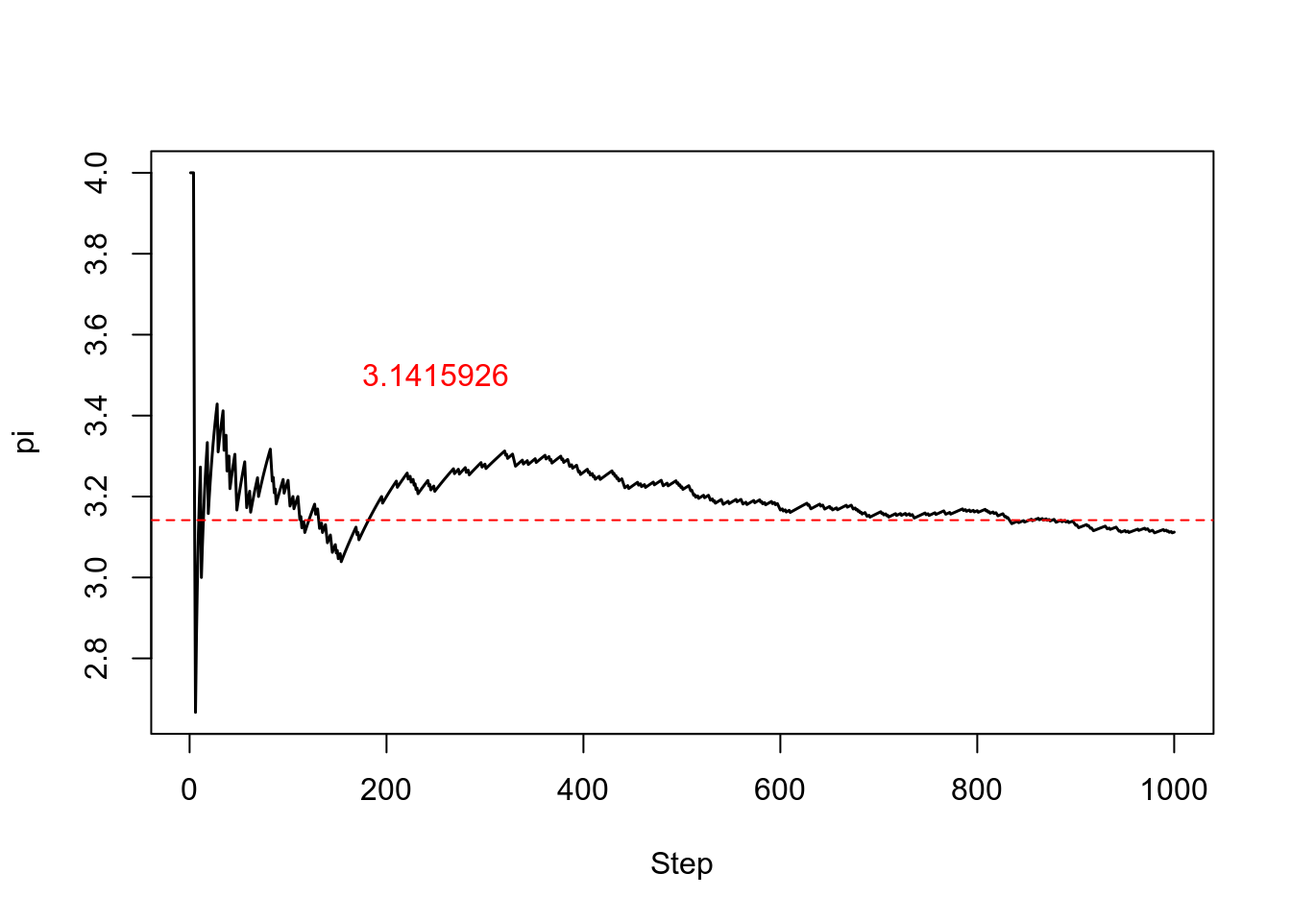
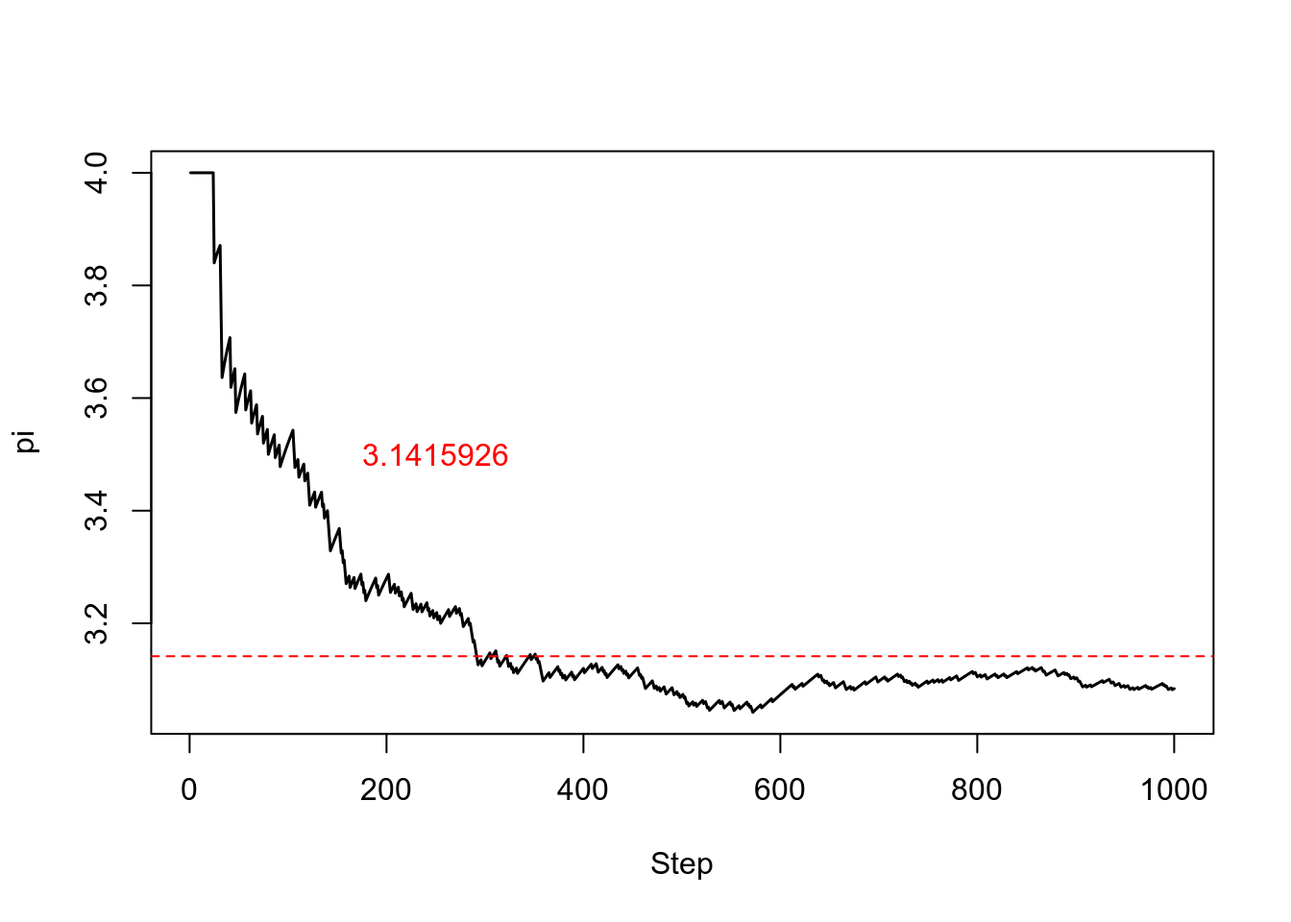
ditto

diff --git a/docs/Section_02.html b/docs/Section_02.html
@@ -787,126 +787,126 @@ div.tocify {
 <a class="sourceLine" id="cb101-4" data-line-number="4">    <span class="kw">print</span>(<span class="kw">paste</span>(Daily_T,Hourly_T))</a>
 <a class="sourceLine" id="cb101-5" data-line-number="5">  }</a>
 <a class="sourceLine" id="cb101-6" data-line-number="6">}</a></code></pre></div>
-<pre><code>## [1] &quot;28 22.9191116558783&quot;
-## [1] &quot;28 24.3034662526052&quot;
-## [1] &quot;28 22.4652657738273&quot;
-## [1] &quot;28 27.0292293920436&quot;
-## [1] &quot;28 27.317875793404&quot;
-## [1] &quot;28 31.4095082489916&quot;
-## [1] &quot;28 30.411486219151&quot;
-## [1] &quot;28 35.704508901776&quot;
-## [1] &quot;28 18.3642222439417&quot;
-## [1] &quot;28 30.3605508692224&quot;
-## [1] &quot;28 22.4817171744962&quot;
-## [1] &quot;28 32.8253506806025&quot;
-## [1] &quot;28 19.377207396677&quot;
-## [1] &quot;28 27.6832994986701&quot;
-## [1] &quot;28 31.1823830232802&quot;
-## [1] &quot;28 29.7680876428388&quot;
-## [1] &quot;28 31.421311646675&quot;
-## [1] &quot;28 15.7170130880617&quot;
-## [1] &quot;28 24.8584999626273&quot;
-## [1] &quot;28 32.2290992560656&quot;
-## [1] &quot;28 22.2165184411214&quot;
-## [1] &quot;28 30.555776103582&quot;
-## [1] &quot;28 24.637593486394&quot;
-## [1] &quot;28 30.4547117643604&quot;
-## [1] &quot;27 24.828478550457&quot;
-## [1] &quot;27 24.0050610548382&quot;
-## [1] &quot;27 27.3601173289363&quot;
-## [1] &quot;27 31.5433283104331&quot;
-## [1] &quot;27 33.9629615518149&quot;
-## [1] &quot;27 27.4525374399896&quot;
-## [1] &quot;27 21.5489616808278&quot;
-## [1] &quot;27 33.3592963523878&quot;
-## [1] &quot;27 23.0113552535564&quot;
-## [1] &quot;27 14.7691593533683&quot;
-## [1] &quot;27 26.2622491419084&quot;
-## [1] &quot;27 26.249150148728&quot;
-## [1] &quot;27 24.6024781597006&quot;
-## [1] &quot;27 21.6985351885774&quot;
-## [1] &quot;27 24.7507372439474&quot;
-## [1] &quot;27 19.0818243231572&quot;
-## [1] &quot;27 34.8594683355909&quot;
-## [1] &quot;27 32.4508977564952&quot;
-## [1] &quot;27 23.0804543013004&quot;
-## [1] &quot;27 30.3104859814593&quot;
-## [1] &quot;27 25.9496726020101&quot;
-## [1] &quot;27 21.1513132471162&quot;
-## [1] &quot;27 24.944490227595&quot;
-## [1] &quot;27 23.7648506550721&quot;
-## [1] &quot;28 32.2530019545672&quot;
-## [1] &quot;28 32.5270945805066&quot;
-## [1] &quot;28 21.4820541504723&quot;
-## [1] &quot;28 29.8156422224574&quot;
-## [1] &quot;28 32.0707872452812&quot;
-## [1] &quot;28 15.841976932703&quot;
-## [1] &quot;28 26.854665636916&quot;
-## [1] &quot;28 32.7594643338706&quot;
-## [1] &quot;28 35.9600075764608&quot;
-## [1] &quot;28 36.5656881318726&quot;
-## [1] &quot;28 35.4960738012371&quot;
-## [1] &quot;28 31.6089596825584&quot;
-## [1] &quot;28 21.9734232996874&quot;
-## [1] &quot;28 26.2839952636924&quot;
-## [1] &quot;28 21.1313745681211&quot;
-## [1] &quot;28 28.1717763098867&quot;
-## [1] &quot;28 24.8164412264669&quot;
-## [1] &quot;28 23.8203283041192&quot;
-## [1] &quot;28 30.216732431821&quot;
-## [1] &quot;28 28.9294501973824&quot;
-## [1] &quot;28 28.5640739935584&quot;
-## [1] &quot;28 29.3040506459835&quot;
-## [1] &quot;28 31.1703069260631&quot;
-## [1] &quot;28 26.4310319719161&quot;
-## [1] &quot;26 22.6071752951435&quot;
-## [1] &quot;26 28.9879125620035&quot;
-## [1] &quot;26 38.8546428651189&quot;
-## [1] &quot;26 29.013920228407&quot;
-## [1] &quot;26 25.445754974153&quot;
-## [1] &quot;26 23.82032790943&quot;
-## [1] &quot;26 26.6019247040476&quot;
-## [1] &quot;26 25.7388803092742&quot;
-## [1] &quot;26 34.6387925429814&quot;
-## [1] &quot;26 18.9936654992185&quot;
-## [1] &quot;26 31.5077973568849&quot;
-## [1] &quot;26 34.803481199985&quot;
-## [1] &quot;26 18.8254455601274&quot;
-## [1] &quot;26 26.5290560627627&quot;
-## [1] &quot;26 24.8431436983811&quot;
-## [1] &quot;26 29.781813249106&quot;
-## [1] &quot;26 28.512139065395&quot;
-## [1] &quot;26 37.5016784800417&quot;
-## [1] &quot;26 19.411108993042&quot;
-## [1] &quot;26 23.6670679568973&quot;
-## [1] &quot;26 28.9400318925177&quot;
-## [1] &quot;26 23.8386490417072&quot;
-## [1] &quot;26 22.9776082150727&quot;
-## [1] &quot;26 22.2683823768214&quot;
-## [1] &quot;27 29.7685404065086&quot;
-## [1] &quot;27 24.4357285010906&quot;
-## [1] &quot;27 21.1122821327159&quot;
-## [1] &quot;27 25.7375142995129&quot;
-## [1] &quot;27 29.2120886617133&quot;
-## [1] &quot;27 18.280928424983&quot;
-## [1] &quot;27 27.315669260055&quot;
-## [1] &quot;27 21.4672390348214&quot;
-## [1] &quot;27 31.6419887465922&quot;
-## [1] &quot;27 25.2375830227144&quot;
-## [1] &quot;27 32.9351579389032&quot;
-## [1] &quot;27 25.1632281403269&quot;
-## [1] &quot;27 25.6106089636792&quot;
-## [1] &quot;27 22.4670567906213&quot;
-## [1] &quot;27 24.7237233429811&quot;
-## [1] &quot;27 26.3417546957906&quot;
-## [1] &quot;27 26.249661837773&quot;
-## [1] &quot;27 21.5821710540884&quot;
-## [1] &quot;27 21.5073432858152&quot;
-## [1] &quot;27 24.7304041980658&quot;
-## [1] &quot;27 30.9296535110593&quot;
-## [1] &quot;27 33.7436679297372&quot;
-## [1] &quot;27 19.4399383825444&quot;
-## [1] &quot;27 37.3037344007725&quot;</code></pre>
+<pre><code>## [1] &quot;28 32.7064156409952&quot;
+## [1] &quot;28 34.4683461769949&quot;
+## [1] &quot;28 25.7774768978171&quot;
+## [1] &quot;28 26.4952805866068&quot;
+## [1] &quot;28 21.1178881184513&quot;
+## [1] &quot;28 36.2704712668829&quot;
+## [1] &quot;28 25.51427156905&quot;
+## [1] &quot;28 25.2801701175247&quot;
+## [1] &quot;28 34.422791721655&quot;
+## [1] &quot;28 40.6181354517753&quot;
+## [1] &quot;28 30.1791787593159&quot;
+## [1] &quot;28 31.2884978628118&quot;
+## [1] &quot;28 32.7454724455758&quot;
+## [1] &quot;28 23.5780201324915&quot;
+## [1] &quot;28 30.0290887688121&quot;
+## [1] &quot;28 32.9867793174989&quot;
+## [1] &quot;28 25.2474507548463&quot;
+## [1] &quot;28 20.9585827345886&quot;
+## [1] &quot;28 25.9528157454482&quot;
+## [1] &quot;28 28.7422917577332&quot;
+## [1] &quot;28 25.042355085962&quot;
+## [1] &quot;28 27.1923449645665&quot;
+## [1] &quot;28 27.6475376849079&quot;
+## [1] &quot;28 38.0408697353107&quot;
+## [1] &quot;27 28.4583907249588&quot;
+## [1] &quot;27 32.3567619773628&quot;
+## [1] &quot;27 22.0600239736614&quot;
+## [1] &quot;27 34.8416075499269&quot;
+## [1] &quot;27 27.0184804546902&quot;
+## [1] &quot;27 31.5013701787295&quot;
+## [1] &quot;27 29.1198227773134&quot;
+## [1] &quot;27 30.3663830274843&quot;
+## [1] &quot;27 27.5437286735898&quot;
+## [1] &quot;27 28.6358272317581&quot;
+## [1] &quot;27 23.875782365765&quot;
+## [1] &quot;27 31.7863367415779&quot;
+## [1] &quot;27 25.5001270212726&quot;
+## [1] &quot;27 32.2838415929911&quot;
+## [1] &quot;27 30.229840605515&quot;
+## [1] &quot;27 20.9429100802247&quot;
+## [1] &quot;27 27.3705092260679&quot;
+## [1] &quot;27 17.1114909950213&quot;
+## [1] &quot;27 30.0551963590906&quot;
+## [1] &quot;27 22.8213674376947&quot;
+## [1] &quot;27 37.8217805527453&quot;
+## [1] &quot;27 30.214262339479&quot;
+## [1] &quot;27 33.091792468528&quot;
+## [1] &quot;27 35.2282921037143&quot;
+## [1] &quot;28 23.7474867724994&quot;
+## [1] &quot;28 23.2450181513571&quot;
+## [1] &quot;28 26.7983867386975&quot;
+## [1] &quot;28 26.5722257283531&quot;
+## [1] &quot;28 22.7941412727559&quot;
+## [1] &quot;28 27.2825488666677&quot;
+## [1] &quot;28 19.1267642244144&quot;
+## [1] &quot;28 25.2388907578233&quot;
+## [1] &quot;28 30.8849475819073&quot;
+## [1] &quot;28 17.9403011141752&quot;
+## [1] &quot;28 30.6416411145722&quot;
+## [1] &quot;28 34.404081072351&quot;
+## [1] &quot;28 22.7296690301647&quot;
+## [1] &quot;28 25.8268205320394&quot;
+## [1] &quot;28 27.2070545424958&quot;
+## [1] &quot;28 30.1651911630407&quot;
+## [1] &quot;28 27.7739760288708&quot;
+## [1] &quot;28 31.3777756251232&quot;
+## [1] &quot;28 30.307386298291&quot;
+## [1] &quot;28 26.2823129929206&quot;
+## [1] &quot;28 27.3800302460586&quot;
+## [1] &quot;28 22.9166051198795&quot;
+## [1] &quot;28 30.7779677362448&quot;
+## [1] &quot;28 32.9835717456618&quot;
+## [1] &quot;26 22.2695332386497&quot;
+## [1] &quot;26 27.016076766294&quot;
+## [1] &quot;26 23.0378612164055&quot;
+## [1] &quot;26 21.2769206898209&quot;
+## [1] &quot;26 25.147874106553&quot;
+## [1] &quot;26 25.1303897206819&quot;
+## [1] &quot;26 37.9081181339775&quot;
+## [1] &quot;26 18.7245071138765&quot;
+## [1] &quot;26 23.5290242959589&quot;
+## [1] &quot;26 31.2361394319059&quot;
+## [1] &quot;26 25.5327747293728&quot;
+## [1] &quot;26 30.1452872892724&quot;
+## [1] &quot;26 29.9026151737417&quot;
+## [1] &quot;26 26.599917254754&quot;
+## [1] &quot;26 24.8119404368588&quot;
+## [1] &quot;26 20.5891765019985&quot;
+## [1] &quot;26 27.5427950774953&quot;
+## [1] &quot;26 17.7193475580249&quot;
+## [1] &quot;26 26.9951024691148&quot;
+## [1] &quot;26 28.4035145113974&quot;
+## [1] &quot;26 29.5099813521896&quot;
+## [1] &quot;26 25.3193090941847&quot;
+## [1] &quot;26 25.0872054085284&quot;
+## [1] &quot;26 18.8398294900316&quot;
+## [1] &quot;27 31.4249465839965&quot;
+## [1] &quot;27 19.1705624119307&quot;
+## [1] &quot;27 37.7321411956095&quot;
+## [1] &quot;27 20.1621659279127&quot;
+## [1] &quot;27 26.8560101922007&quot;
+## [1] &quot;27 24.6797866802272&quot;
+## [1] &quot;27 24.9644996246178&quot;
+## [1] &quot;27 24.9357427795714&quot;
+## [1] &quot;27 26.2752472738663&quot;
+## [1] &quot;27 22.7041440456932&quot;
+## [1] &quot;27 25.7643713281794&quot;
+## [1] &quot;27 26.3893820156297&quot;
+## [1] &quot;27 28.9289622376422&quot;
+## [1] &quot;27 28.6753998551052&quot;
+## [1] &quot;27 33.5457651356556&quot;
+## [1] &quot;27 24.6504871130639&quot;
+## [1] &quot;27 21.5635460605378&quot;
+## [1] &quot;27 24.0318298289227&quot;
+## [1] &quot;27 28.3277828453996&quot;
+## [1] &quot;27 25.6387877043074&quot;
+## [1] &quot;27 33.7478053209952&quot;
+## [1] &quot;27 35.9686045506586&quot;
+## [1] &quot;27 24.1163424076562&quot;
+## [1] &quot;27 24.7949433581714&quot;</code></pre>
 <p>Here at each <code>Hour</code> we use the <code>rnorm()</code> function to generate <code>1</code> random Gaussian sample with a mean of <code>Daily_T</code> and a standard deviation of <code>5</code>.</p>
 <p>We notice in the output that when the first index (<code>Daily_T</code>) is set to <code>28</code>, the second index (<code>Hour</code>) iterates through its full set of indices. Once the indices of <code>Hour</code> have been iterated through, then <code>Daily_T</code> moves to the next one (<em>i.e.</em>, <code>27</code>). This process continues until the last index has been used for each <code>for()</code> loop.</p>
 <p>Rather than printing the results, we could write the loop output to a new <em>object</em>:</p>
@@ -920,26 +920,26 @@ div.tocify {
 <a class="sourceLine" id="cb103-8" data-line-number="8">}</a>
 <a class="sourceLine" id="cb103-9" data-line-number="9"></a>
 <a class="sourceLine" id="cb103-10" data-line-number="10"><span class="kw">print</span>(Output_List)</a></code></pre></div>
-<pre><code>##   [1] &quot;28 27.7432833538552&quot; &quot;28 24.6774029920211&quot; &quot;28 25.252488770833&quot;  &quot;28 25.5011128239145&quot; &quot;28 32.0411261681307&quot; &quot;28 32.3233760962101&quot;
-##   [7] &quot;28 24.1632921590382&quot; &quot;28 30.036859588747&quot;  &quot;28 32.1169386256536&quot; &quot;28 32.0528804878&quot;    &quot;28 22.2599915004862&quot; &quot;28 26.7131709506255&quot;
-##  [13] &quot;28 19.6629872952296&quot; &quot;28 22.2551422143391&quot; &quot;28 32.5376874171742&quot; &quot;28 27.0627264698798&quot; &quot;28 32.2720345081598&quot; &quot;28 30.5059193061132&quot;
-##  [19] &quot;28 29.8963910993256&quot; &quot;28 30.0001935892354&quot; &quot;28 29.2292464136703&quot; &quot;28 26.7872371078314&quot; &quot;28 14.6310796853046&quot; &quot;28 19.9828784434807&quot;
-##  [25] &quot;27 24.1189156384446&quot; &quot;27 29.4239308437637&quot; &quot;27 29.493131615655&quot;  &quot;27 23.7302889688842&quot; &quot;27 25.8254202452938&quot; &quot;27 25.8026525319922&quot;
-##  [31] &quot;27 35.3222555560755&quot; &quot;27 24.1686179606026&quot; &quot;27 23.458848676758&quot;  &quot;27 35.3540734102969&quot; &quot;27 33.3364765879952&quot; &quot;27 24.7378591826586&quot;
-##  [37] &quot;27 32.6166395268288&quot; &quot;27 17.1401736131283&quot; &quot;27 21.415692652256&quot;  &quot;27 29.2227759934053&quot; &quot;27 22.9113402243862&quot; &quot;27 28.7177357828811&quot;
-##  [43] &quot;27 28.3449326475815&quot; &quot;27 23.731040609176&quot;  &quot;27 34.406082294112&quot;  &quot;27 18.579141515937&quot;  &quot;27 34.8810324308279&quot; &quot;27 27.8586760810725&quot;
-##  [49] &quot;28 34.7315696236365&quot; &quot;28 28.5289029450792&quot; &quot;28 31.6567577937533&quot; &quot;28 27.0486502354259&quot; &quot;28 29.4067303708343&quot; &quot;28 29.7654207275711&quot;
-##  [55] &quot;28 26.4019357596918&quot; &quot;28 26.9891432557744&quot; &quot;28 24.5148699345987&quot; &quot;28 27.5677631864497&quot; &quot;28 23.8628639769401&quot; &quot;28 28.5871306741653&quot;
-##  [61] &quot;28 30.5880459467583&quot; &quot;28 23.9034107330156&quot; &quot;28 28.0204131541773&quot; &quot;28 29.7572892790911&quot; &quot;28 32.9678287032894&quot; &quot;28 25.7720993733047&quot;
-##  [67] &quot;28 30.8663957216972&quot; &quot;28 25.9999692367507&quot; &quot;28 22.4947943480124&quot; &quot;28 32.6142959071695&quot; &quot;28 29.5161825152086&quot; &quot;28 24.0094997002381&quot;
-##  [73] &quot;26 22.6062894088139&quot; &quot;26 32.1394050689212&quot; &quot;26 18.6952956292717&quot; &quot;26 30.5909410381709&quot; &quot;26 26.7687591728828&quot; &quot;26 26.2966964901693&quot;
-##  [79] &quot;26 23.9595261960213&quot; &quot;26 16.7374591010743&quot; &quot;26 30.2736887534817&quot; &quot;26 26.928812668738&quot;  &quot;26 17.6764338494553&quot; &quot;26 24.755955776389&quot; 
-##  [85] &quot;26 20.9357360468395&quot; &quot;26 24.7028580115916&quot; &quot;26 31.4093495460369&quot; &quot;26 29.593408867867&quot;  &quot;26 27.9585017262092&quot; &quot;26 18.9360181909323&quot;
-##  [91] &quot;26 23.3910138772211&quot; &quot;26 29.152466633467&quot;  &quot;26 33.7353715825918&quot; &quot;26 24.1082183733841&quot; &quot;26 22.0506888160827&quot; &quot;26 26.4911560838813&quot;
-##  [97] &quot;27 24.352901069094&quot;  &quot;27 27.7120945320861&quot; &quot;27 22.7778912601227&quot; &quot;27 37.1067392726399&quot; &quot;27 30.5178071977614&quot; &quot;27 35.5611615888504&quot;
-## [103] &quot;27 30.4583223588485&quot; &quot;27 21.074230597792&quot;  &quot;27 29.5255015179571&quot; &quot;27 28.9964281344267&quot; &quot;27 25.5192931272121&quot; &quot;27 30.0999291889517&quot;
-## [109] &quot;27 27.1090441385058&quot; &quot;27 29.0311067388948&quot; &quot;27 27.4205810230841&quot; &quot;27 31.9950508700225&quot; &quot;27 28.6100146241754&quot; &quot;27 29.3145420651475&quot;
-## [115] &quot;27 23.4113731843149&quot; &quot;27 26.5382751063149&quot; &quot;27 30.2514956198252&quot; &quot;27 29.5075108538948&quot; &quot;27 16.7393703157843&quot; &quot;27 30.2502718784969&quot;</code></pre>
+<pre><code>##   [1] &quot;28 21.0949509842951&quot; &quot;28 31.9805316118299&quot; &quot;28 31.2804637104269&quot; &quot;28 30.882777569312&quot;  &quot;28 28.9874403034081&quot; &quot;28 34.0612284218637&quot;
+##   [7] &quot;28 39.9683264979883&quot; &quot;28 36.2940293003086&quot; &quot;28 30.8049780536642&quot; &quot;28 22.6791294958927&quot; &quot;28 23.2305377421081&quot; &quot;28 18.6730466728511&quot;
+##  [13] &quot;28 28.4149587957368&quot; &quot;28 27.7866430702377&quot; &quot;28 31.4110902066936&quot; &quot;28 32.2514974640576&quot; &quot;28 31.685255901918&quot;  &quot;28 29.7028244005832&quot;
+##  [19] &quot;28 30.0763293054984&quot; &quot;28 24.6728565757325&quot; &quot;28 24.9180649220376&quot; &quot;28 34.9063321501391&quot; &quot;28 33.8938440532069&quot; &quot;28 25.7991677512124&quot;
+##  [25] &quot;27 27.4434864402074&quot; &quot;27 28.6318539101278&quot; &quot;27 26.2496383951006&quot; &quot;27 28.4813917558264&quot; &quot;27 27.2371358225542&quot; &quot;27 26.5147173815944&quot;
+##  [31] &quot;27 25.355914343397&quot;  &quot;27 33.9874749860551&quot; &quot;27 32.4943093189908&quot; &quot;27 28.0507922122772&quot; &quot;27 24.5075988234029&quot; &quot;27 30.8315026433015&quot;
+##  [37] &quot;27 29.5815020211342&quot; &quot;27 24.490149237508&quot;  &quot;27 25.1484716918157&quot; &quot;27 22.8248291885613&quot; &quot;27 18.6030842514769&quot; &quot;27 24.4718557717292&quot;
+##  [43] &quot;27 27.592076226255&quot;  &quot;27 26.0519626696945&quot; &quot;27 30.0466215156517&quot; &quot;27 21.803357590045&quot;  &quot;27 32.2128765539625&quot; &quot;27 28.5942340428193&quot;
+##  [49] &quot;28 32.3417596373243&quot; &quot;28 25.3173577755698&quot; &quot;28 33.2254688688115&quot; &quot;28 25.1238817758099&quot; &quot;28 27.1643528285061&quot; &quot;28 29.8123620663187&quot;
+##  [55] &quot;28 30.983659077839&quot;  &quot;28 35.9831316302524&quot; &quot;28 31.2609395773967&quot; &quot;28 27.683856055621&quot;  &quot;28 30.4503606105118&quot; &quot;28 30.0509050851953&quot;
+##  [61] &quot;28 26.7067865323634&quot; &quot;28 23.9615279930524&quot; &quot;28 21.8457501072167&quot; &quot;28 27.5866098869181&quot; &quot;28 31.4803009011558&quot; &quot;28 28.3737082483436&quot;
+##  [67] &quot;28 24.08810905667&quot;   &quot;28 35.8594043911321&quot; &quot;28 26.0308098398545&quot; &quot;28 36.4832578811591&quot; &quot;28 33.63962337813&quot;   &quot;28 21.2735176181607&quot;
+##  [73] &quot;26 27.272088449968&quot;  &quot;26 22.7613124722723&quot; &quot;26 30.9214453764658&quot; &quot;26 25.9826493104594&quot; &quot;26 24.3108073338016&quot; &quot;26 26.7860532799714&quot;
+##  [79] &quot;26 24.8478825733139&quot; &quot;26 25.3946733734372&quot; &quot;26 34.5508221871593&quot; &quot;26 20.3727878695449&quot; &quot;26 20.5005356577399&quot; &quot;26 33.667939204097&quot; 
+##  [85] &quot;26 18.3312801216928&quot; &quot;26 20.9303045474935&quot; &quot;26 25.5583730252619&quot; &quot;26 24.2773656128847&quot; &quot;26 37.019451969911&quot;  &quot;26 24.514475688563&quot; 
+##  [91] &quot;26 31.0131549966082&quot; &quot;26 29.4402589966123&quot; &quot;26 23.5580460175181&quot; &quot;26 18.5033370263963&quot; &quot;26 25.9814692283085&quot; &quot;26 32.1603871769426&quot;
+##  [97] &quot;27 28.3259987143422&quot; &quot;27 37.7920834134514&quot; &quot;27 26.082073827191&quot;  &quot;27 20.6747376698151&quot; &quot;27 30.6806943807441&quot; &quot;27 18.8817696379745&quot;
+## [103] &quot;27 27.6732192539528&quot; &quot;27 29.3579965342082&quot; &quot;27 25.9449554347444&quot; &quot;27 34.5716315303321&quot; &quot;27 32.3753951699968&quot; &quot;27 30.3635679037415&quot;
+## [109] &quot;27 26.8514310368503&quot; &quot;27 21.9982305662726&quot; &quot;27 27.0500421127744&quot; &quot;27 27.18831937769&quot;   &quot;27 34.7786581994119&quot; &quot;27 25.3877005956171&quot;
+## [115] &quot;27 26.134079189191&quot;  &quot;27 26.2385169324646&quot; &quot;27 34.1431418281852&quot; &quot;27 21.3691795986348&quot; &quot;27 30.7226955204534&quot; &quot;27 28.4854884418197&quot;</code></pre>
 <p>This approach can be useful, but “growing your results” (building the result object incrementally) is <strong>computationally inefficient</strong>, so avoid it when you are iterating through a lot of values.</p>
 <p><strong>Important</strong>: One of the biggest things that trips up novices and experienced R users alike, is building a results object (<em>vector</em>, <em>list</em>, <em>matrix</em>, <em>data frame</em>) as your for loop progresses. Computers are very bad at handling this, so your calculations can very quickly slow to a crawl. It’s much better to define an <strong>empty results object</strong> beforehand of appropriate dimensions, rather than initializing an empty object without dimensions. So if you know the end result will be stored in a matrix-like above, create an empty matrix with <code>5</code> row and <code>24</code> columns, then at each iteration stores the results in the appropriate location.</p>
 <div class="sourceCode" id="cb105"><pre class="sourceCode r"><code class="sourceCode r"><a class="sourceLine" id="cb105-1" data-line-number="1">Output_Matrix    &lt;-<span class="st"> </span><span class="kw">matrix</span>(<span class="dt">nrow=</span><span class="dv">5</span>, <span class="dt">ncol=</span><span class="dv">24</span>)</a>
@@ -953,26 +953,26 @@ div.tocify {
 <a class="sourceLine" id="cb105-9" data-line-number="9">}</a>
 <a class="sourceLine" id="cb105-10" data-line-number="10">Output_Matrix2 &lt;-<span class="st"> </span><span class="kw">as.vector</span>(Output_Matrix)</a>
 <a class="sourceLine" id="cb105-11" data-line-number="11">Output_Matrix2</a></code></pre></div>
-<pre><code>##   [1] &quot;28 36.2136898052022&quot; &quot;27 29.539734333081&quot;  &quot;28 27.3840327004281&quot; &quot;26 33.1699329304478&quot; &quot;27 30.8897401881041&quot; &quot;28 21.8622453464531&quot;
-##   [7] &quot;27 27.8928755970307&quot; &quot;28 32.7540877142154&quot; &quot;26 26.9730912241158&quot; &quot;27 23.654580835312&quot;  &quot;28 31.2853671328025&quot; &quot;27 24.9998606015611&quot;
-##  [13] &quot;28 21.6375557333048&quot; &quot;26 19.3937379223222&quot; &quot;27 30.3659831441405&quot; &quot;28 30.9380715699506&quot; &quot;27 23.1427993034397&quot; &quot;28 20.4952569849907&quot;
-##  [19] &quot;26 23.9641050926182&quot; &quot;27 32.5254356478452&quot; &quot;28 27.8776520231295&quot; &quot;27 29.9545207459243&quot; &quot;28 31.1109053106632&quot; &quot;26 23.7801484618906&quot;
-##  [25] &quot;27 26.9601363866758&quot; &quot;28 22.6084235669782&quot; &quot;27 17.267013475273&quot;  &quot;28 33.3725918972723&quot; &quot;26 27.0751104170568&quot; &quot;27 28.9617358192044&quot;
-##  [31] &quot;28 32.1427512440548&quot; &quot;27 28.7611138586649&quot; &quot;28 32.6435139117457&quot; &quot;26 32.5054679979543&quot; &quot;27 34.3370687688802&quot; &quot;28 28.6576280263777&quot;
-##  [37] &quot;27 29.9534909891442&quot; &quot;28 24.449521245604&quot;  &quot;26 27.2843385474874&quot; &quot;27 14.6336667077916&quot; &quot;28 21.402200587772&quot;  &quot;27 22.5145114730428&quot;
-##  [43] &quot;28 29.2017108726263&quot; &quot;26 15.4277970934422&quot; &quot;27 18.6000073097434&quot; &quot;28 29.4813119344152&quot; &quot;27 29.0071322570055&quot; &quot;28 36.3877223405693&quot;
-##  [49] &quot;26 27.6456504953645&quot; &quot;27 23.6672771650368&quot; &quot;28 25.2808487796311&quot; &quot;27 28.4832616589417&quot; &quot;28 24.7718789837467&quot; &quot;26 20.9710521250237&quot;
-##  [55] &quot;27 26.4127722278972&quot; &quot;28 25.7374349565506&quot; &quot;27 26.1551322029163&quot; &quot;28 31.9352853444807&quot; &quot;26 25.9172053022861&quot; &quot;27 28.6349543371134&quot;
-##  [61] &quot;28 33.8947729359042&quot; &quot;27 18.7832262197995&quot; &quot;28 31.3321828192125&quot; &quot;26 28.4869819196254&quot; &quot;27 16.2029989318712&quot; &quot;28 29.403866197146&quot; 
-##  [67] &quot;27 29.3279711558583&quot; &quot;28 26.134344800103&quot;  &quot;26 38.5128053675642&quot; &quot;27 27.284677608756&quot;  &quot;28 36.3589075669882&quot; &quot;27 25.6698758095235&quot;
-##  [73] &quot;28 28.440334183161&quot;  &quot;26 32.5668269895852&quot; &quot;27 20.8123200385174&quot; &quot;28 22.9365828140118&quot; &quot;27 26.75238822448&quot;   &quot;28 28.1638031901727&quot;
-##  [79] &quot;26 29.9065719864713&quot; &quot;27 22.4211957530581&quot; &quot;28 28.7132756225616&quot; &quot;27 23.5676532569021&quot; &quot;28 28.9294508569724&quot; &quot;26 19.9798452441782&quot;
-##  [85] &quot;27 34.1009964235659&quot; &quot;28 25.0404913092826&quot; &quot;27 36.5926589162542&quot; &quot;28 25.8032941466701&quot; &quot;26 26.4556590536418&quot; &quot;27 22.5063793900475&quot;
-##  [91] &quot;28 29.6013293807396&quot; &quot;27 23.5136147545826&quot; &quot;28 40.5608236755865&quot; &quot;26 25.0838720790837&quot; &quot;27 25.0150299063821&quot; &quot;28 22.4337082934582&quot;
-##  [97] &quot;27 31.5563178440947&quot; &quot;28 20.5738331561791&quot; &quot;26 26.3194868706253&quot; &quot;27 31.8368839491348&quot; &quot;28 27.2191006924364&quot; &quot;27 28.4983170012877&quot;
-## [103] &quot;28 18.4819197850998&quot; &quot;26 30.8611325969718&quot; &quot;27 25.9001435969938&quot; &quot;28 31.6983536958206&quot; &quot;27 29.4451473333656&quot; &quot;28 22.1080018250115&quot;
-## [109] &quot;26 27.8194010357005&quot; &quot;27 31.4499226767609&quot; &quot;28 25.0527381111394&quot; &quot;27 25.3696048228439&quot; &quot;28 25.4902771569892&quot; &quot;26 23.4816162068913&quot;
-## [115] &quot;27 23.2233363485333&quot; &quot;28 23.6075614430611&quot; &quot;27 21.7469028006609&quot; &quot;28 33.4261678754161&quot; &quot;26 29.5486665455548&quot; &quot;27 37.1463544802398&quot;</code></pre>
+<pre><code>##   [1] &quot;28 27.7323828913406&quot; &quot;27 27.137530983274&quot;  &quot;28 26.7398037938897&quot; &quot;26 20.7494812250912&quot; &quot;27 21.8497923486342&quot; &quot;28 21.8314303726149&quot;
+##   [7] &quot;27 21.3319701502304&quot; &quot;28 30.2010202742501&quot; &quot;26 39.6568987811911&quot; &quot;27 27.4559790141152&quot; &quot;28 26.6976941982422&quot; &quot;27 27.4802980409388&quot;
+##  [13] &quot;28 29.6255087662056&quot; &quot;26 23.7881830742485&quot; &quot;27 26.8074630959389&quot; &quot;28 26.9406606880604&quot; &quot;27 28.0680896786028&quot; &quot;28 35.6914993584194&quot;
+##  [19] &quot;26 28.6880366335659&quot; &quot;27 27.4349146988446&quot; &quot;28 31.2267700007621&quot; &quot;27 33.3325670411144&quot; &quot;28 31.6465876327794&quot; &quot;26 20.1026806285926&quot;
+##  [25] &quot;27 27.8981766209447&quot; &quot;28 28.1874696622199&quot; &quot;27 21.2993652214617&quot; &quot;28 23.4468121970524&quot; &quot;26 22.266209896839&quot;  &quot;27 20.1057782817425&quot;
+##  [31] &quot;28 27.0144373838302&quot; &quot;27 29.7628016167046&quot; &quot;28 28.8597543498837&quot; &quot;26 14.301466153138&quot;  &quot;27 29.7975021458192&quot; &quot;28 23.5367290516118&quot;
+##  [37] &quot;27 21.1100520940575&quot; &quot;28 30.0413259310347&quot; &quot;26 35.5836286337108&quot; &quot;27 34.3364733634466&quot; &quot;28 30.2237162109091&quot; &quot;27 33.9011183498282&quot;
+##  [43] &quot;28 29.6105525647592&quot; &quot;26 35.6111322664204&quot; &quot;27 22.670077126578&quot;  &quot;28 26.1563483104312&quot; &quot;27 24.7880625885581&quot; &quot;28 28.0007230992548&quot;
+##  [49] &quot;26 22.8609299442859&quot; &quot;27 26.9065340827447&quot; &quot;28 28.6070196932588&quot; &quot;27 31.8266678047334&quot; &quot;28 27.6319260198115&quot; &quot;26 22.92826051904&quot;  
+##  [55] &quot;27 28.9352316669038&quot; &quot;28 32.0501265251733&quot; &quot;27 29.293086708528&quot;  &quot;28 17.2831285490927&quot; &quot;26 28.979544127948&quot;  &quot;27 24.737345151724&quot; 
+##  [61] &quot;28 26.2021697789554&quot; &quot;27 27.9538282484048&quot; &quot;28 28.0008692622817&quot; &quot;26 23.9406063367668&quot; &quot;27 36.7305888039325&quot; &quot;28 23.1793936581503&quot;
+##  [67] &quot;27 31.8018376021332&quot; &quot;28 22.0149863369354&quot; &quot;26 24.209800628488&quot;  &quot;27 30.5481653009253&quot; &quot;28 31.5789340454035&quot; &quot;27 24.5175567293108&quot;
+##  [73] &quot;28 26.3432461751672&quot; &quot;26 26.8278061872354&quot; &quot;27 25.6256604071556&quot; &quot;28 31.5178377300445&quot; &quot;27 28.9738038114286&quot; &quot;28 36.9578093819176&quot;
+##  [79] &quot;26 25.3198555855662&quot; &quot;27 32.7753455847166&quot; &quot;28 27.9478351866547&quot; &quot;27 14.5373614437517&quot; &quot;28 33.9195596945223&quot; &quot;26 22.5987689486269&quot;
+##  [85] &quot;27 29.2501377533373&quot; &quot;28 33.771927681675&quot;  &quot;27 29.9361985217361&quot; &quot;28 26.6564155695737&quot; &quot;26 29.2081827745925&quot; &quot;27 27.7933618762466&quot;
+##  [91] &quot;28 37.53434230901&quot;   &quot;27 23.9600785509218&quot; &quot;28 31.6877970334622&quot; &quot;26 25.3128438857138&quot; &quot;27 32.4860637655341&quot; &quot;28 26.358926546265&quot; 
+##  [97] &quot;27 24.6533076479319&quot; &quot;28 23.3776982860295&quot; &quot;26 17.8190346468395&quot; &quot;27 22.8046819601688&quot; &quot;28 33.2231068659214&quot; &quot;27 36.5523152262459&quot;
+## [103] &quot;28 28.024851461905&quot;  &quot;26 27.9750105145307&quot; &quot;27 25.9318764018125&quot; &quot;28 22.0228259655299&quot; &quot;27 23.3542228921227&quot; &quot;28 24.6509363539082&quot;
+## [109] &quot;26 34.5156880237346&quot; &quot;27 30.8652035800495&quot; &quot;28 21.6562947755323&quot; &quot;27 34.6961891680018&quot; &quot;28 35.2906078725142&quot; &quot;26 19.8451887563818&quot;
+## [115] &quot;27 16.0440498124702&quot; &quot;28 18.3766305024902&quot; &quot;27 25.9877181336839&quot; &quot;28 29.0322718028126&quot; &quot;26 16.1062829795873&quot; &quot;27 24.6008056635338&quot;</code></pre>
 <p>Here we use <code>matrix()</code> to create an empty matrix with <code>5</code> rows and <code>24</code> columns, and use <code>as.vector()</code> to convert the <code>5x24</code> matrix into a vector with a length of <code>120</code>.</p>
 <p>Sometimes you will find yourself needing to repeat an operation as long as a certain condition is met. You can do this with a <code>while()</code> loop.</p>
 <div class="sourceCode" id="cb107"><pre class="sourceCode r"><code class="sourceCode r"><a class="sourceLine" id="cb107-1" data-line-number="1">z &lt;-<span class="st"> </span><span class="dv">0</span></a>
@@ -1097,11 +1097,11 @@ div.tocify {
 <a class="sourceLine" id="cb113-9" data-line-number="9"><span class="kw">print</span>(<span class="st">&quot;How many students pass:&quot;</span>)</a></code></pre></div>
 <pre><code>## [1] &quot;How many students pass:&quot;</code></pre>
 <div class="sourceCode" id="cb115"><pre class="sourceCode r"><code class="sourceCode r"><a class="sourceLine" id="cb115-1" data-line-number="1"><span class="kw">print</span>(PassStudents)</a></code></pre></div>
-<pre><code>## [1] 16</code></pre>
+<pre><code>## [1] 22</code></pre>
 <div class="sourceCode" id="cb117"><pre class="sourceCode r"><code class="sourceCode r"><a class="sourceLine" id="cb117-1" data-line-number="1"><span class="kw">print</span>(<span class="st">&quot;Pass ratio is:&quot;</span>)</a></code></pre></div>
 <pre><code>## [1] &quot;Pass ratio is:&quot;</code></pre>
 <div class="sourceCode" id="cb119"><pre class="sourceCode r"><code class="sourceCode r"><a class="sourceLine" id="cb119-1" data-line-number="1"><span class="kw">print</span>(PassStudents<span class="op">/</span>TotalStudents)</a></code></pre></div>
-<pre><code>## [1] 0.4</code></pre>
+<pre><code>## [1] 0.55</code></pre>
 <ul>
 <li>Can you explain what this script does? Use the following flowchart <a href="#fn6" class="footnote-ref" id="fnref6"><sup>6</sup></a> for help.</li>
 </ul>

diff --git a/docs/Section_01.html b/docs/Section_01.html
@@ -737,7 +737,7 @@ Hopefully, this course will make your life easier when it comes to interpret and
 <a class="sourceLine" id="cb2-7" data-line-number="7"><span class="kw">text</span>(<span class="fl">0.25</span><span class="op">*</span>TotalDraw,<span class="fl">3.5</span>,<span class="st">&quot;3.1415926&quot;</span>,<span class="dt">cex=</span><span class="dv">1</span>,<span class="dt">col=</span><span class="st">&quot;red&quot;</span>)</a></code></pre></div>
 <p><img src="Section_01_files/figure-html/unnamed-chunk-2-1.png" width="672" /></p>
 <div class="sourceCode" id="cb3"><pre class="sourceCode r"><code class="sourceCode r"><a class="sourceLine" id="cb3-1" data-line-number="1"><span class="kw">print</span>(<span class="kw">paste</span>(<span class="st">&quot;Mean Pi from the last 100 steps is: &quot;</span>,<span class="kw">mean</span>(Results[TotalDraw<span class="dv">-99</span><span class="op">:</span>TotalDraw])))</a></code></pre></div>
-<pre><code>## [1] &quot;Mean Pi from the last 100 steps is:  3.20335881869457&quot;</code></pre>
+<pre><code>## [1] &quot;Mean Pi from the last 100 steps is:  3.2056864844797&quot;</code></pre>
 <p>Simulation with 100,000 random points yields a better result</p>
 <div class="sourceCode" id="cb5"><pre class="sourceCode r"><code class="sourceCode r"><a class="sourceLine" id="cb5-1" data-line-number="1"><span class="co"># Draw 1E5 points</span></a>
 <a class="sourceLine" id="cb5-2" data-line-number="2">TotalDraw &lt;-<span class="st"> </span><span class="fl">1E5</span></a>
@@ -748,7 +748,7 @@ Hopefully, this course will make your life easier when it comes to interpret and
 <a class="sourceLine" id="cb5-7" data-line-number="7"><span class="kw">text</span>(<span class="fl">0.25</span><span class="op">*</span>TotalDraw,<span class="fl">3.5</span>,<span class="st">&quot;3.1415926&quot;</span>,<span class="dt">cex=</span><span class="dv">1</span>,<span class="dt">col=</span><span class="st">&quot;red&quot;</span>)</a></code></pre></div>
 <p><img src="Section_01_files/figure-html/unnamed-chunk-3-1.png" width="672" /></p>
 <div class="sourceCode" id="cb6"><pre class="sourceCode r"><code class="sourceCode r"><a class="sourceLine" id="cb6-1" data-line-number="1"><span class="kw">print</span>(<span class="kw">paste</span>(<span class="st">&quot;Mean Pi from the last 100 steps is: &quot;</span>,<span class="kw">mean</span>(Results[TotalDraw<span class="dv">-99</span><span class="op">:</span>TotalDraw])))</a></code></pre></div>
-<pre><code>## [1] &quot;Mean Pi from the last 100 steps is:  3.1442710336107&quot;</code></pre>
+<pre><code>## [1] &quot;Mean Pi from the last 100 steps is:  3.13734556458638&quot;</code></pre>
 <hr />
 </div>
 </div>

diff --git a/docs/Assignment_01.html b/docs/Assignment_01.html
@@ -453,8 +453,8 @@ Submit your scripts and report via GitHub. The submission time will be determine
 </div>
 <div id="explore-a-data-set" class="section level1">
 <h1>7. Explore a data set</h1>
-<p>Browse the <a href="http://data.casearth.cn/">CASEarth website</a>, <a href="https://www.ncdc.noaa.gov/data-access/land-based-station-data/land-based-datasets">NOAA Land-Based Datasets and Products</a>, or <a href="https://agage.mit.edu/">Advanced Global Atmospheric Gases Experiment (AGAGE)</a>. Search and download a data set you are interested in. Your data set should be in <code>csv</code>, <code>XLS</code>, or <code>XLSX</code> format, and have temporal information. In R, do the following:<br />
-<strong>7.1 [5 points]</strong> Load the <code>csv</code> or <code>XLSX</code> file, and clean possible data points with missing values or bad quality.<br />
+<p>Browse the <a href="http://data.casearth.cn/">CASEarth</a>, <a href="https://www.ncdc.noaa.gov/data-access/land-based-station-data/land-based-datasets">NOAA Land-Based Datasets and Products</a>, or <a href="https://agage.mit.edu/">Advanced Global Atmospheric Gases Experiment (AGAGE)</a> website. Search and download a data set you are interested in. Your data set should be in <code>csv</code>, <code>XLS</code>, or <code>XLSX</code> format, and have temporal information. In R, do the following:<br />
+<strong>7.1 [5 points]</strong> Load the <code>csv</code>, <code>XLS</code>, or <code>XLSX</code> file, and clean possible data points with missing values or bad quality.<br />
 <strong>7.2 [5 points]</strong> Plot the time series of a certain variable.<br />
 <strong>7.3 [5 points]</strong> Conduct at least <code>5</code> simple statistical checks with the variable, and report your findings.</p>
 </div>
